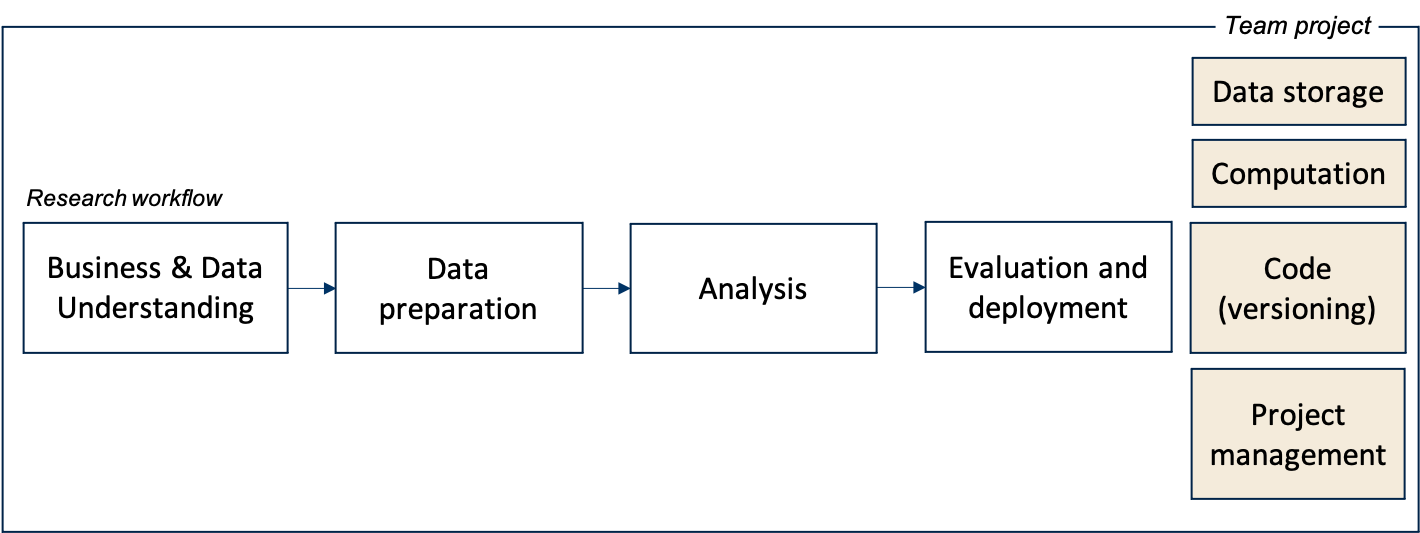
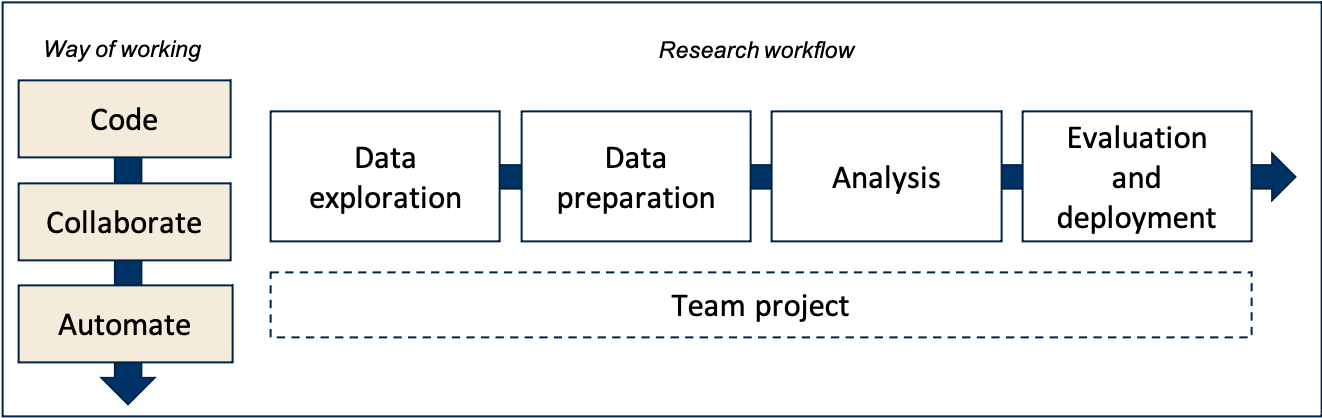
get ready new version of dprep

diff --git a/content/docs/course/syllabus.md b/content/docs/course/syllabus.md
@@ -56,7 +56,62 @@ After successful completion of this course, you will be able to:
 - The course welcomes novices, of whom __extra preparation prior to the start of the course is expected.__ Preparation material will be shared with students in advance in the form of R Notebooks or course recommendations at Datacamp. Novices may further benefit from following other courses at Tilburg University in which R is used.
 - Students are recommended to use their own computer for this course (Windows, Mac or Linux). Android/Chromebook/iOS devices are not supported. Moreover, we highly recommend a computer with at least 8 GBs of RAM memory as we'll work with large data sets that require significant preprocessing.
 
+## Grading
 
+- Team project (4-5 team members) with self- and peer assessment (see below) (40%)
+- Computer exam (60%)
+
+Students pass this course if the final course grade (i.e., the weighted average of the group project and exam; weights indicated above) is ≥ 5.5, and the exam is passed (≥ 5.5). Final course grades are rounded to multiples of half points (e.g., 6, 6.5, 7, etc.).
+
+Grades are made available on Canvas.
+
+### Team project
+
+Students will work on a team project throughout the course.
+
+Students' individual grades will be corrected upwards or downwards, depending on their individual contribution to the overall team effort (e.g., measured by means of scoring themselves and their team members on, among others, the quantity and quality of their contributions)
+
+
+
+<!--
+- their individual contribution to the overall team effort (measured by means of scoring themselves and their team members on, among others, the quantity and quality of their contributions), and
+- students' individual investment in developing the technical skills required to contribute meaningfully to the project (measured by means of students' individual submissions of answers to the tutorials/data challenges).
+
+-->
+
+
+
+<!--
+{{< hint info >}}
+__Calculation of individual grades from team grades__
+
+1. Students score themselves and other team members on the following questions (answered on a scale between 1 = lowest, and 5 = highest)
+  - How was the pro-active attitude of the student?
+  - How was the student as a team player?
+  - How was the quantity of the contribution (e.g., time, energy) of the student?
+  - How was the quality of the contribution of the student?
+  - How was the quality of feedback to team members given by the student?
+
+2. Compute average score from (1) for each student within a team, across all questions. ("How did team members rate the focal student?")
+
+3. Compute average team effort score, by averaging (within each team) the scores obtained in (2). ("What was the overall team effort?")
+
+4. Compute students' self- and peer assessment score (`SPAscore`), by dividing each student's score by the team average. ("How did the student perform, relative to the overall team effort?"
+
+5. Multiply the `SPAscore` by 1.05 if the focal student has provided proof of skill investment (at least three submissions on Canvas).
+
+6. Correct team grades using the following formula:
+
+      {{< katex display >}}
+      finalgrade = w * teamgrade + (1-w) * SPAscore * teamgrade
+      {{< /katex >}}
+
+  where w is set to .8, weighting individual performance against a team's overall performance.
+
+
+{{< /hint >}}
+
+-->
 
 <!--  - Project management on GitHub (versioning, issue management, collaboration)
 <!-- plugin R for using Git -->
@@ -106,58 +161,3 @@ Work on VMs on AWS, code in SQL and R, compete on Kaggle, or work on own compute
 --><!--, work on virtual machines on AWS EC2, and write basic code in SQL-->
 
 <!--, MySQL, MongoDB and Amazon Web Services (AWS) EC2 and S3-->
-
-## Grading
-
-- Group project (4-5 team members) with self- and peer assessment (see below) (40%)
-- Computer exam (60%)
-
-Students pass this course if the final course grade (i.e., the weighted average of the group project and exam; weights indicated above) is ≥ 5.5, and the exam is passed (≥ 5.5). Final course grades are rounded to multiples of half points (e.g., 6, 6.5, 7, etc.).
-
-Grades are made available on Canvas.
-
-### Team project
-
-Students will work on a team project throughout the course.
-
-Students' individual grades will be corrected upwards or downwards, depending on their individual contribution to the overall team effort (e.g., measured by means of scoring themselves and their team members on, among others, the quantity and quality of their contributions)
-
-<!--
-- their individual contribution to the overall team effort (measured by means of scoring themselves and their team members on, among others, the quantity and quality of their contributions), and
-- students' individual investment in developing the technical skills required to contribute meaningfully to the project (measured by means of students' individual submissions of answers to the tutorials/data challenges).
-
--->
-
-
-
-<!--
-{{< hint info >}}
-__Calculation of individual grades from team grades__
-
-1. Students score themselves and other team members on the following questions (answered on a scale between 1 = lowest, and 5 = highest)
-  - How was the pro-active attitude of the student?
-  - How was the student as a team player?
-  - How was the quantity of the contribution (e.g., time, energy) of the student?
-  - How was the quality of the contribution of the student?
-  - How was the quality of feedback to team members given by the student?
-
-2. Compute average score from (1) for each student within a team, across all questions. ("How did team members rate the focal student?")
-
-3. Compute average team effort score, by averaging (within each team) the scores obtained in (2). ("What was the overall team effort?")
-
-4. Compute students' self- and peer assessment score (`SPAscore`), by dividing each student's score by the team average. ("How did the student perform, relative to the overall team effort?"
-
-5. Multiply the `SPAscore` by 1.05 if the focal student has provided proof of skill investment (at least three submissions on Canvas).
-
-6. Correct team grades using the following formula:
-
-      {{< katex display >}}
-      finalgrade = w * teamgrade + (1-w) * SPAscore * teamgrade
-      {{< /katex >}}
-
-  where w is set to .8, weighting individual performance against a team's overall performance.
-
-
-{{< /hint >}}
-
--->

diff --git a/content/docs/course/exam/_index.md b/content/docs/course/exam/_index.md
@@ -1,6 +1,6 @@
 ---
 title: "Exam"
-weight: 5
+weight: 8
 description: " "
 bookCollapseSection: true
 description: " "
@@ -14,16 +14,16 @@ The course content will be tested in the form of a __take-home exam__, to be com
 
 ### Main sit
 
-- Date: __Friday, 9 April 2021__
+- Date: __tba__
 - Time: __8am - 10pm__ (Amsterdam time, you can start when you want, but *must* submit before the deadline)
 - Exam registration: not necessary; enrollment to the Canvas course page is sufficient
-- Inspection: Friday, 30 April 2021, 9.00-09.30 (signup here: https://forms.gle/6y5q66tsJzsGN59b9, Zoom link see Canvas)
+- Inspection: tba <!-- (signup here: https://forms.gle/6y5q66tsJzsGN59b9, Zoom link see Canvas)-->
 
 ### Resit
 
-- Date: __Monday, 21 June 2021__
-- Time: __8am - 10pm__ (Amsterdam time, you can start when you want, but *must* submit before the deadline)
-- Registration: by 7 June 2021 at the latest, via https://forms.gle/KXQBjtTvY9saQQhS8.
+- Date: __tba__
+- Time: __tba__ (Amsterdam time, you can start when you want, but *must* submit before the deadline)
+- Registration: tba <!--by 7 June 2021 at the latest, via https://forms.gle/KXQBjtTvY9saQQhS8.-->
 
 ## Technicalities & support
 
@@ -35,7 +35,7 @@ The course content will be tested in the form of a __take-home exam__, to be com
 ## Form
 
 - Open book take-home exam (i.e., you can access any material you find helpful, including material you have stored on your computers, or that you find on the internet).
-- 4 sections with subquestions (all open questions; both in written, or by means of code/file uploads)
+- several sections with subquestions (all open questions; both in written, or by means of code/file uploads)
 - Some questions will be personalized (i.e., there is only one correct answer per student)
 
 {{< hint warning >}}
@@ -43,6 +43,7 @@ __Communication with anybody about the content of the exam, during *and after* t
 
 {{< /hint >}}
 
+<!--
 ## Content
 
 ### Topics
@@ -104,12 +105,11 @@ Above all, see this exam preparation *not* as a way to merely study for the exam
 - Make use of cheat sheets (e.g., available on this site, or elsewhere) (you can also print them)
 - Take breaks! While the exam questions will be difficult, you do not need the entire day to solve them!
 - Revise your code before submission, so that you ensure it runs from top to bottom without problems.
+-->
 
-<!--
 {{< hint info >}}
 __Stay up-to-date__
 
 As we develop the exam questions, please keep an eye on the content of this page for important updates (e.g., with regard to the questions asked, any new tips & tricks that will help you to work on the questions, any example questions, etc.)
 
 {{< /hint >}}
--->

diff --git a/content/docs/about/_index.md b/content/docs/about/_index.md
@@ -13,18 +13,19 @@ We've built up expertise in data preparation and workflow management. And we're 
 
 Feedback is appreciated always.
 
-## Contributors
+## Instructors and Creators
 
-This course has been created by [Hannes Datta](https://hannesdatta.com) and [Roy Klaasse Bos](http://royklaassebos.nl/) from Tilburg University.
+The course is coordinated and instructed by [Hannes Datta](https://hannesdatta.com). Course material, if not indicated otherwise, has been developed by [Hannes Datta](https://hannesdatta.com) and [Roy Klaasse Bos](http://royklaassebos.nl/) from Tilburg University.
 
 ## Acknowledgements
 
-This is the first edition of a new course, and it borrows substantial external content. We're grateful to excellent (beginner) tutorials, which students will access through [Datacamp](https://datacamp.com). Furthermore, we rely on the following list of resources:
+In developing this course, we have borrowed from some of the finest (open) content on the web, among others:
 * The Turing Way. (2021). [A How To Guide for Reproducible Data Science](https://the-turing-way.netlify.app/welcome)
 * Colt Steele. (2020). [Introduction to Git](https://www.notion.so/Introduction-to-Git-ac396a0697704709a12b6a0e545db049)
 * Colt Steele. (2020). [Introduction to Github](https://www.notion.so/Introduction-to-GitHub-202af6f64bbd4299b15f238dcd09d2a7)
 * Data School. (2014). [Version Control with Git & Github](https://www.youtube.com/watch?v=xKVlZ3wFVKA&list=PL5-da3qGB5IBLMp7LtN8Nc3Efd4hJq0kD)
 
+We also rely on access to Datacamp.com.
 
 ## Open Science
 This course adheres to the principles of the [Open Science Community](https://www.tilburguniversity.edu/research/open-science-community) of Tilburg University. This initiative advocates for transparency and accessibility in research and teaching to all levels of society and thus creating more accountability and impact.
@@ -33,7 +34,7 @@ This course adheres to the principles of the [Open Science Community](https://ww
 
 ## License
 
-This content on this course website is licensed under a [Creative Commons Attribution-NonCommercial 4.0 International License](http://creativecommons.org/licenses/by-nc/4.0/). In other words, you're invited to contribute to it, or even copy and modify it to suit your needs.
+The content on this website and the associated GitHub repository is licensed under a [Creative Commons Attribution-NonCommercial 4.0 International License](http://creativecommons.org/licenses/by-nc/4.0/). In other words, you're invited to contribute to it, or even copy and modify it to suit your needs.
 
 Spread the word about this open education initiative!
 

diff --git a/content/docs/tutorials/_index.md b/content/docs/tutorials/_index.md
@@ -11,18 +11,15 @@ bookCollapseSection: true
 
 Learn the technical skills required to work on data-intensive research projects. Most tutorials start with existing content (e.g., from [Datacamp](https://datacamp.com), [TheTuringWay](https://the-turing-way.netlify.app/), or [Tilburg Science Hub](https://tilburgsciencehub.com)). Each tutorial also consists of a Data Challenge, which apply the learnt concepts in the domain of marketing analytics.
 
+{{< hint info >}}
+__Stay up-to-date__
 
-{{< hint warning >}}
-__Obtain access to Premium Content at Datacamp.com__
-
-We use material provided by Datacamp.com that otherwise is only available via paid premium subscriptions. Students can make use of this material with their `@tilburguniversity.edu` account for free.
-
-1) When logging in to Datacamp.com, choose "Google" and provide your `@tilburguniversity.edu` email address.
-2) After logging in, verify you have access to premium content (e.g., by checking whether you can [work on all chapters](https://learn.datacamp.com/courses/intermediate-r).
-3) If you can't premium content, please send an [email to our library support team, asking them to provide you with full access for this course](mailto:Library-Scienceskills@tilburguniversity.edu).
-
-Encountering problems? Check the [sign-up instructions provided by the University's library](https://www.tilburguniversity.edu/students/skills/programming). <!--External students are encouraged to buy a subscription for the duration of this course.-->
+The tutorials shown below are from the spring 2021 edition of this course, and will be updated before the start of the fall 2021 edition (sometime in August 2021).
 
 {{< /hint >}}
+
+{{< button relref="docs/course/datacamp.md" >}}Obtain access to Datacamp.com{{< /button >}}
+
+## Available tutorials
 
 {{<section>}}

diff --git a/content/docs/course/schedule.md b/content/docs/course/schedule.md
@@ -8,12 +8,14 @@ description: " "
 
 # Schedule
 
-The course runs for a duration of eight weeks, which consists of
+The course runs for a duration of seven weeks.
+ <!--, which consists of
 - five weeks dedicated to skill-building, and
-- three weeks dedicated to working on a team project.
+- three weeks dedicated to working on a team project.-->
 
 Login credentials for the live streams will be made available on the *Canvas page of this course for students from Tilburg University*.
 
+<!--
 Click on the course week to find out what is expected from you for each module. Note that links for which content has not been published yet will not work.
 
 Course week|Live stream|Date|Time
@@ -30,22 +32,25 @@ Course week|Live stream|Date|Time
 |     |Course summary and exam preparation (#6) |Friday, 26 March, 2021|14.45-16.30|
 
 
+-->
 
-
-<!--
 
 Course week|Unit|Mon|Tue|Wed|Thu|Fri|Sat|Sun|
 |:-:|:-:|:-:|:-:|:-:|:-:|:-:|:-:|:-:|
-|*February 2021*
-Week 1|3.1|1|2|3|4|5|6|7|
-Week 2|3.2|8|9|10|11|12|13|14
-Week 3|Self-study|15|16|17|18|19|20|21
-Week 4|3.3|22|23|24|25|26|27|28
-|*March 2021*
-Week 5|3.4|1|2|3|4|5|6|7
-Week 6|3.5|8|9|10|11|12|13|14
-Week 7|3.6|15|16|17|18|19|20|21
-Week 8|3.7|22|23|24|25|26|27|28
+|*August 2021*
+Week 1|1.1|30|31||||||
+|*September 2021*
+Week 1|1.1|||1|2|3|4|5|
+Week 2|1.2|6|7|8|9|10|11|12
+Week 3|1.3|13|14|15|16|17|18|19
+Week 4|1.4|20|21|22|23|24|25|26
+Week 5|1.5|27|28|29|30|||
+|*October 2021*
+Week 5|1.5|||||1|2|3
+Week 6|1.6|4|5|6|7|8|9|10
+Week 7|1.7|11|12|13|14|15|16|17
+
+<!--Week 8|3.7|22|23|24|25|26|27|28
  ||Exams|29|30|31
 |*April 2021*
         |  |  |  |  ||1|2|3|4

diff --git a/content/docs/course/datacamp.md b/content/docs/course/datacamp.md
@@ -1,0 +1,22 @@
+---
+weight: 7
+bookFlatSection: true
+title: "Access to Datacamp"
+bookHidden: false
+description: " "
+---
+
+# Access to Datacamp.com
+
+Throughout the course, we use material provided by Datacamp.com that otherwise is only available via paid premium subscriptions. Students can make use of this material with their `@tilburguniversity.edu` account for free.
+
+{{< hint warning >}}
+__Obtain access to Premium Content at Datacamp.com__
+
+1) When logging in to Datacamp.com, choose "Google" and provide your `@tilburguniversity.edu` email address.
+2) After logging in, verify you have access to premium content (e.g., by checking whether you can [work on all chapters](https://learn.datacamp.com/courses/intermediate-r).
+3) If you can't premium content, please send an [email to our library support team, asking them to provide you with full access for this course](mailto:Library-Scienceskills@tilburguniversity.edu).
+
+Encountering problems? Check the [sign-up instructions provided by the University's library](https://www.tilburguniversity.edu/students/skills/programming). <!--External students are encouraged to buy a subscription for the duration of this course.-->
+
+{{< /hint >}}

diff --git a/content/_index.md b/content/_index.md
@@ -30,7 +30,7 @@ The course offers seats to Research Master and PhD students from outside of Tilb
 
 This website is the backbone of the course, and features the following main sections.
 
-- The [__course__](docs/course) section holds a list of weekly [modules](docs/course/modules), consisting of live streams, readings, and prerecorded clips. Even if you're not enrolled in this course, you can watch these clips, but interaction with the course instructor is reserved for enrolled students only.
+- The __[weekly modules](docs/modules)__ consist of live streams, readings, and prerecorded clips. Even if you're not enrolled in this course, you can watch these clips, but interaction with the course instructor is reserved for enrolled students only.
 
 - The [__tutorial and data challenge__](docs/tutorials) section offers self-guided tutorials that teach the *principles* of data preparation and workflow management. It also holds a (weekly) data challenge in which you can put your skills into practice. <!--Use these to start your own empirical research projects! <!--a workflow for collecting online data, and -->
 

diff --git a/content/docs/modules/_index.md b/content/docs/modules/_index.md
@@ -8,11 +8,14 @@ bookCollapseSection: true
 
 # Modules
 
-The course consists of weekly modules. The first five weeks (including one self-study week) equip you with the skills to work on data-intensive research projects efficiently. The modules are structured along the different stages of an empirical research project.
+The course consists of weekly modules covering the three principles of the *new way of working* (i.e., code, collaborate, automate). In the team assignment, students apply these principles on each stage of an empirical research project.
+
+<!--The first five weeks (including one self-study week) equip you with the skills to work on data-intensive research projects efficiently.
 
 The remaining three weeks are dedicated to working on a team project, in which you put your skills into practice.
-
-![dprep_framework.png](dprep_framework.png)
+-->
+<br>
+<img style="width:75%" src="dprep_framework.png" />
 
 <!--
 ## Course structure
@@ -33,5 +36,6 @@ The remaining three weeks are dedicated to working on a team project, in which y
 
 ...-->
 
+## Published modules
 
 {{<section>}}

diff --git a/content/docs/course/support/_index.md b/content/docs/course/support/_index.md
@@ -1,7 +1,7 @@
 ---
 title: "Support"
 bookCollapseSection: true
-weight: 6
+weight: 20
 description: " "
 ---
 
@@ -9,6 +9,10 @@ description: " "
 # Support
 
 Are you experiencing technical difficulties, e.g., when working through the tutorials?
+
+Contact the course coordinator via email, please: h.datta@tilburguniversity.edu.
+
+<!--
 
 For quick questions, please use *WhatsApp* to get in touch with us (+31 13 466 8938).
 

diff --git a/content/docs/modules/week3/_index.md b/content/docs/modules/week3/_index.md
@@ -3,7 +3,7 @@ weight: 3
 title: Week 3) Workflow management
 description: Familiarize yourself with the principles of workflow management to efficiently work on data-intensive research projects.
 bookCollapseSection: true
-draft: false
+draft: true
 ---
 
 # Week 3: Workflow management

diff --git a/content/docs/modules/week2/_index.md b/content/docs/modules/week2/_index.md
@@ -3,7 +3,7 @@ weight: 3
 title: Week 2) Data preparation
 description: Use tidyverse and dplyr to structure your data for analysis, and generate data reports using R Markdown.
 bookCollapseSection: true
-draft: false
+draft: true
 ---
 
 # Week 2: Data preparation

diff --git a/content/docs/modules/week5/_index.md b/content/docs/modules/week5/_index.md
@@ -3,7 +3,7 @@ weight: 5
 title: Week 5) Version control and project management
 description: Keep track of file changes and apply the end-to-end Git workflow!
 bookCollapseSection: true
-draft: false
+draft: true
 ---
 
 # Week 5: Version control <!--+ feedback-->
